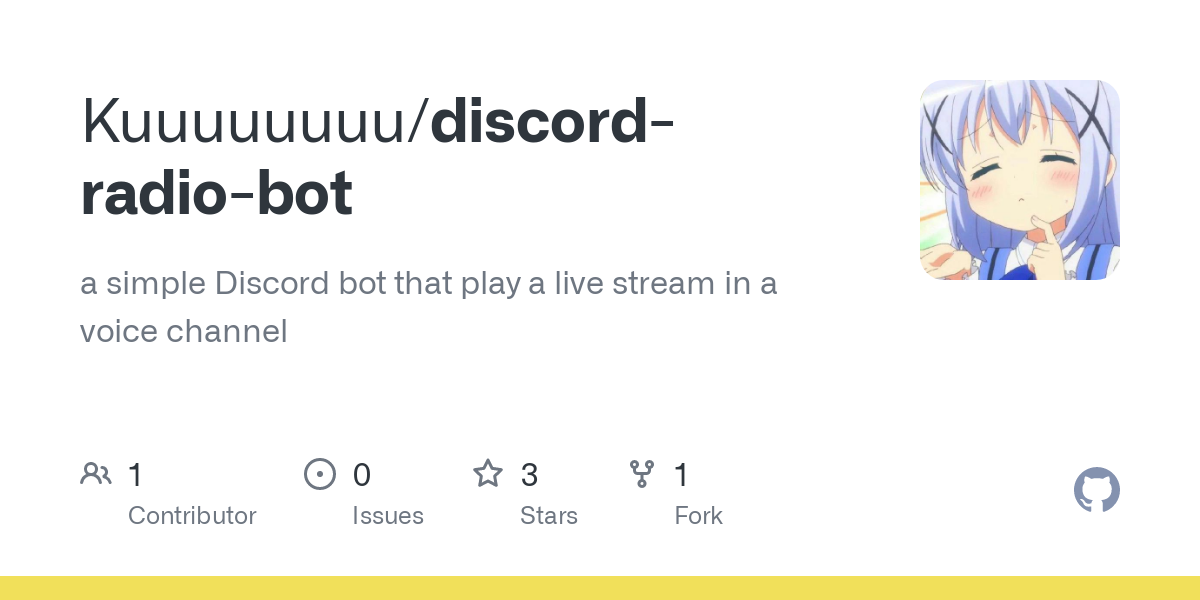
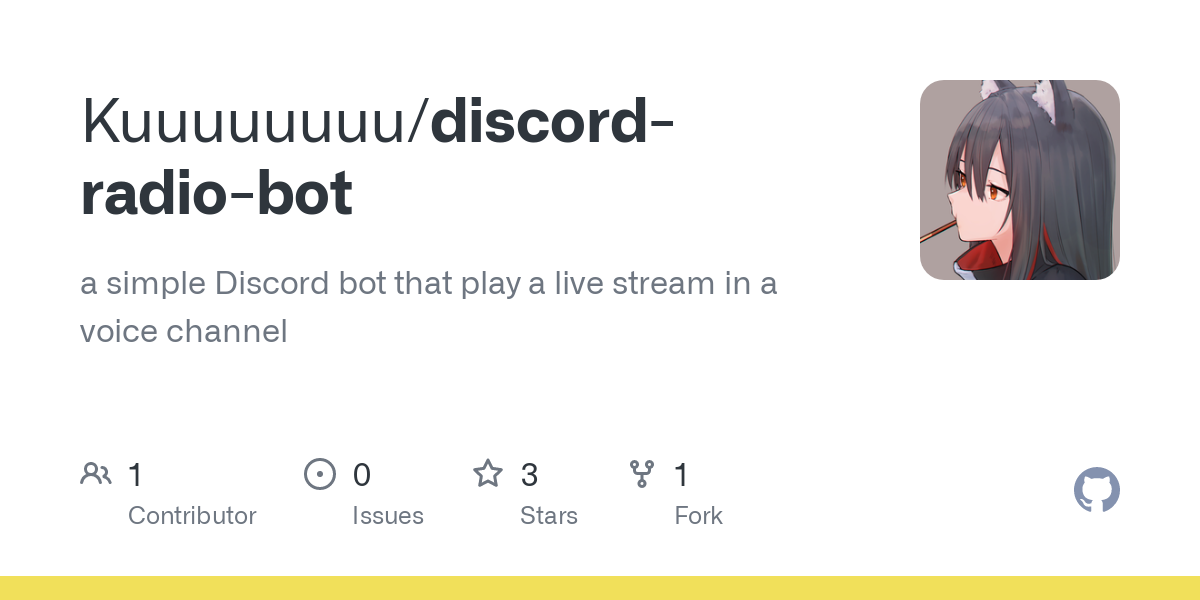
Update assets

Changed region(s): [[0.74, 0.12, 0.9558, 0.48]]

diff --git a/README.md b/README.md
@@ -4,7 +4,7 @@ Powered by Go and GitHub Actions 🚀
 
 <br/>
 
-Last Updated: 2024-03-30 16:02:57
+Last Updated: 2024-03-30 19:03:39
 
 [![Task Status](https://github.com/Kuuuuuuuu/assets/actions/workflows/main.yml/badge.svg)](https://github.com/Kuuuuuuuu/assets/actions/workflows/main.yml)
 
